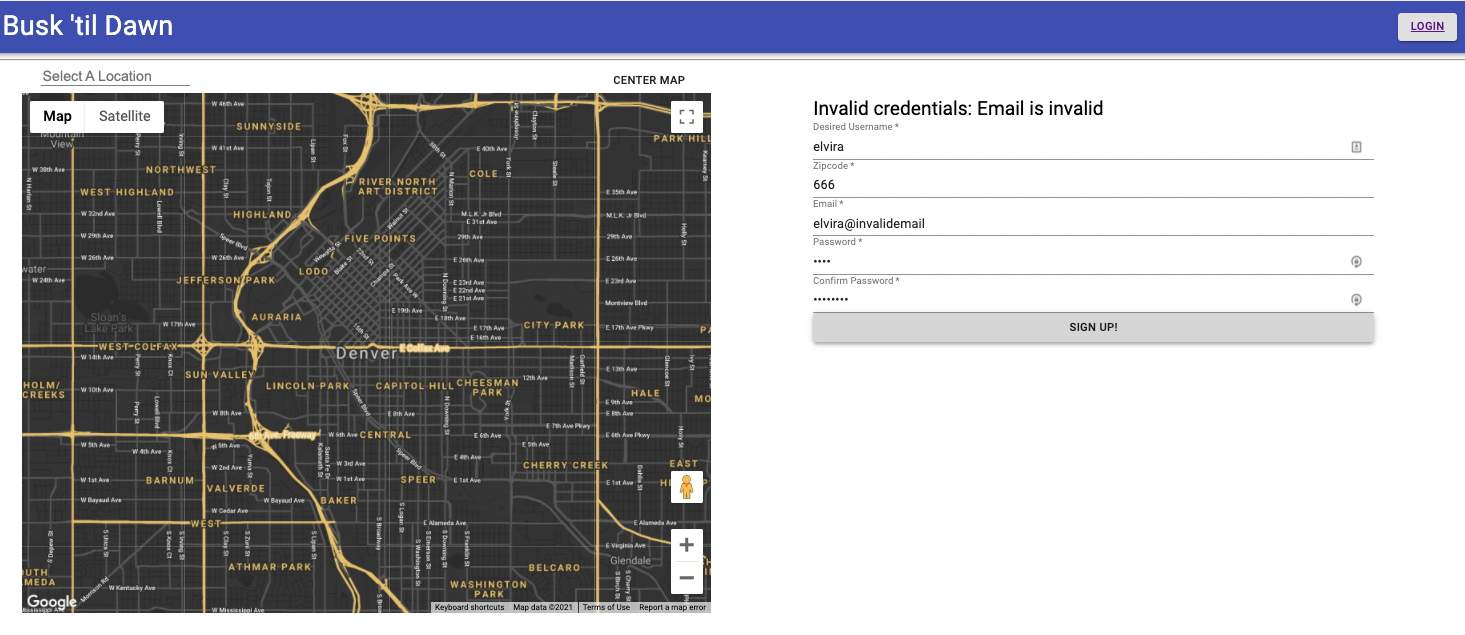
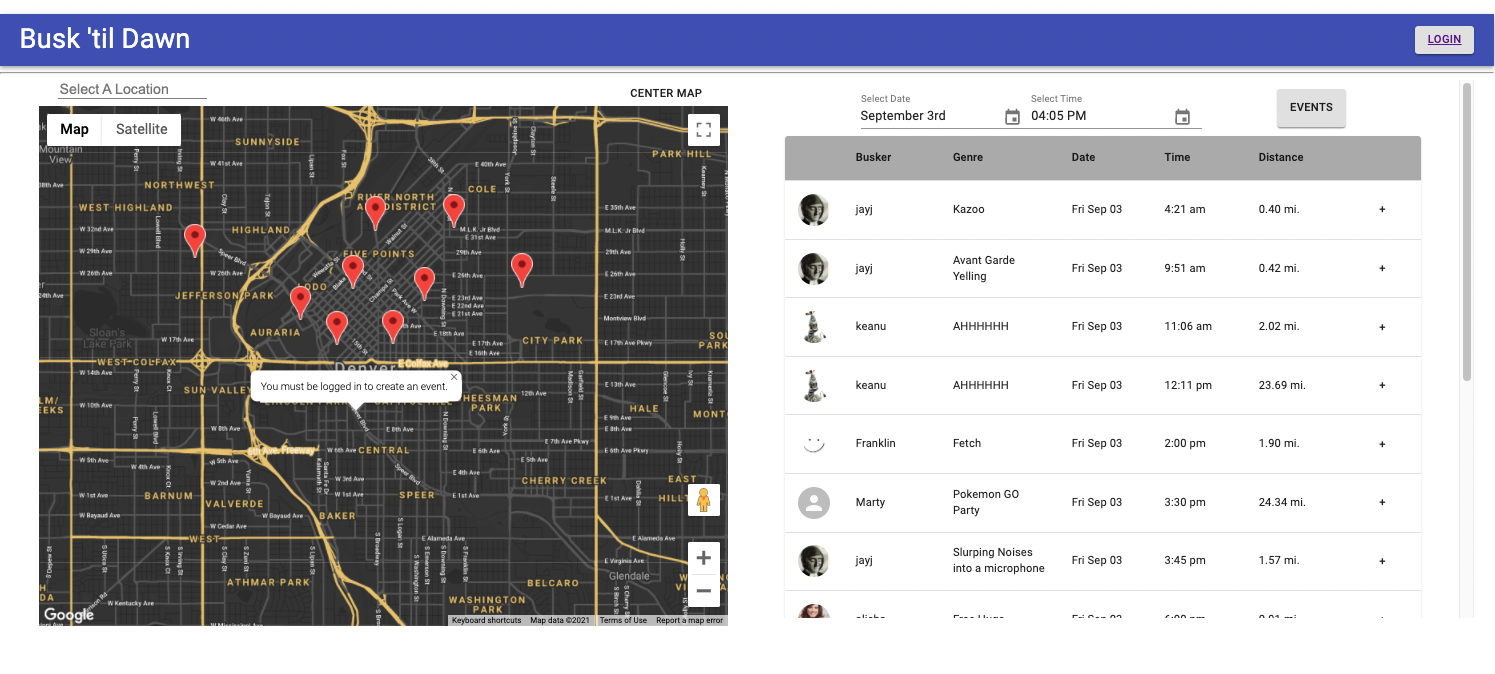
completes initial draft of demo

diff --git a/README.md b/README.md
@@ -22,16 +22,39 @@ Here is the public version of [Busk 'til Dawn](https://gentle-ocean-96036.heroku
 
 ## Roadmap
 On page load, you will see the interactive map set to the default location for your area. In the case, Denver. You will also see the calendar of events within 30miles that will take place over the next 24hrs. If you attempt to add an event when not logged in, you will receive a notification instructing you to login in order to add events.
+
+![altText](./readme-images/1.png)
+
+Curious about a specific performers performances? Click any of the heading and the calendar view will sort accordingly by performer name, time, performance genre, or distance.
+
 ![altText](./readme-images/2.png)
 
 Curious about events but don't want to login? No worries! You can still click an event to see the details pop up in the map view.
 ![altText](./readme-images/3.png)
 
 At this you want to attend the event and realize you may forget. Time to login! Create an account with validation for email, password length, password complexity, and password consistency
-![altText](./readme-images/1.png)
+![altText](./readme-images/9.png)
 
 Already have an account? Login to view your existing schedule
 ![altText](./readme-images/4.png)
+
+Once logged in, click the Account Setting button in the upper right to see your profile, add a cashapp link, or change your default zipcode.
+![altText](./readme-images/5.png)
+
+Once logged in, events you are hosting will appear in green and events you are attending will apear with minus signs. Want to add an event to your calendar? Click the plus sign and it will become a minus and add the event and the details of that event will pop up on the map.
+![altText](./readme-images/6.png)
+
+Only want to see the events you're attending or hosting? Click the schedule tab and all other events will disappear.
+![altText](./readme-images/7.png)
+
+Want to perform? Click a location on the map and you'll be prompted to add details for your event. Once it's added, the calendar will display it in real time once you're in the right location/timeframe.
+![altText](./readme-images/10.png)
+
+Find a performer you're excited about? Click their name and you'll see their public profile including a CashApp link for tips! Their profile also includes a list of their upcoming performances.
+![altText](./readme-images/8.png)
+
+
+
 
 
 
